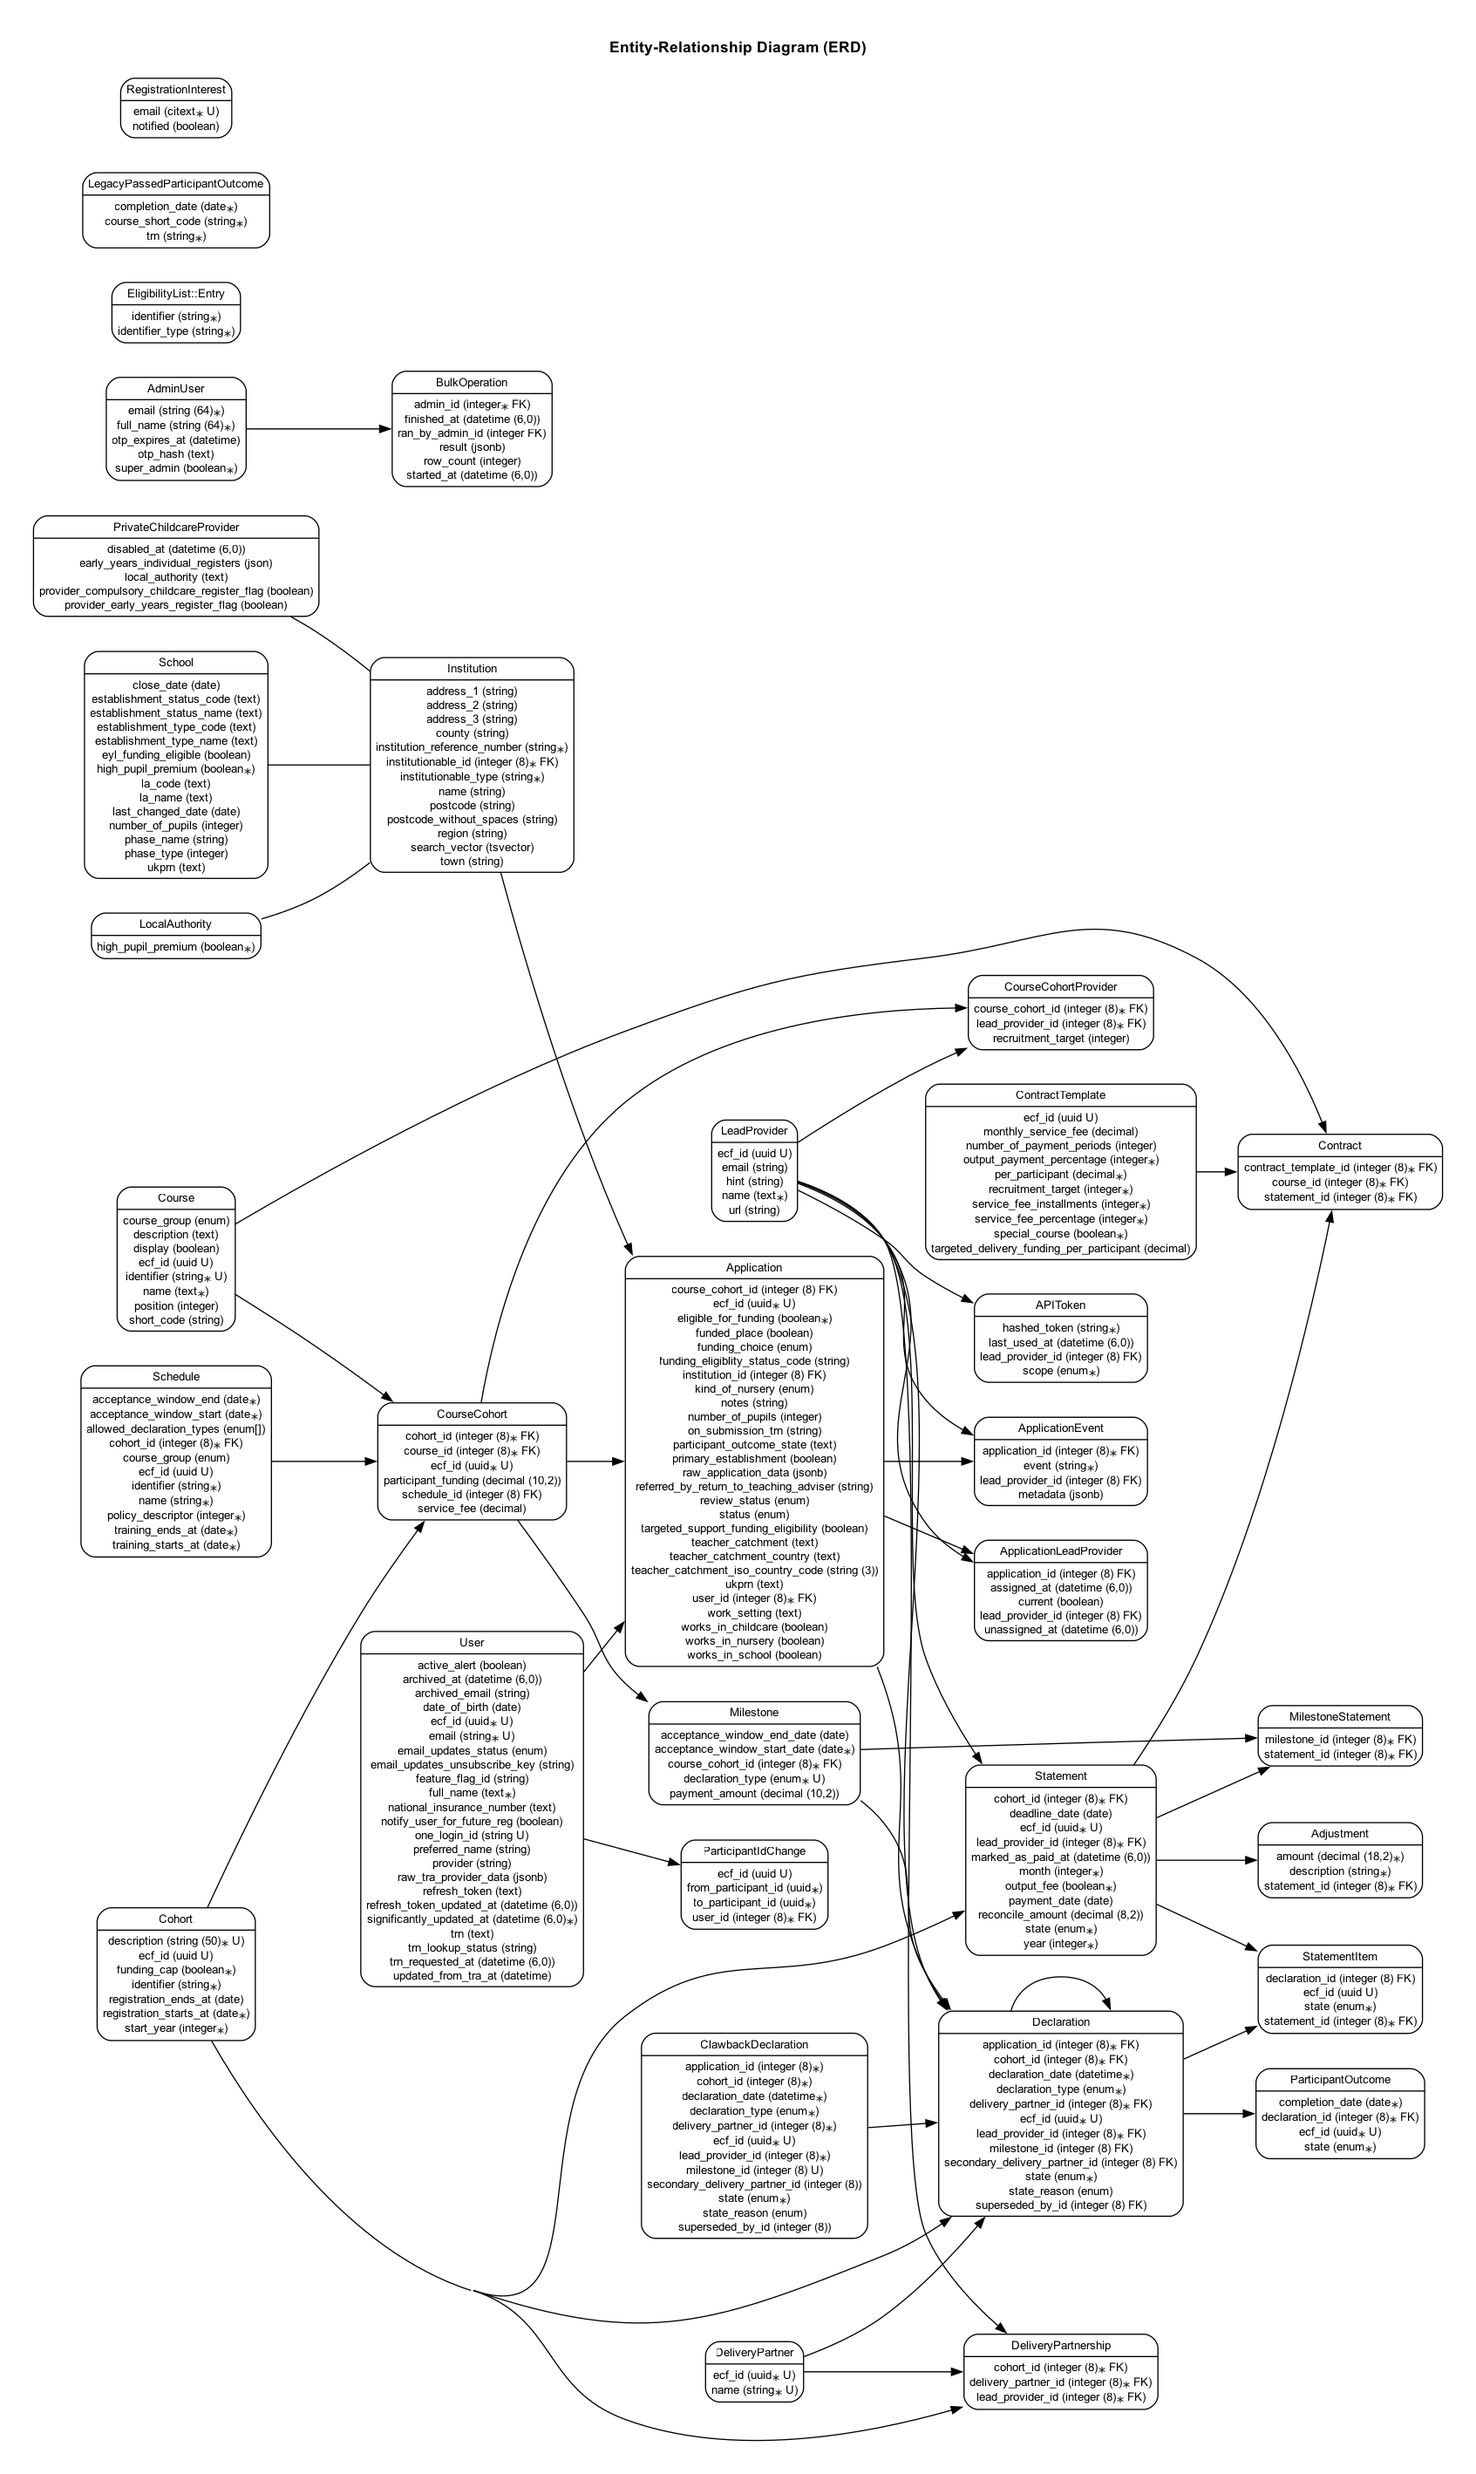
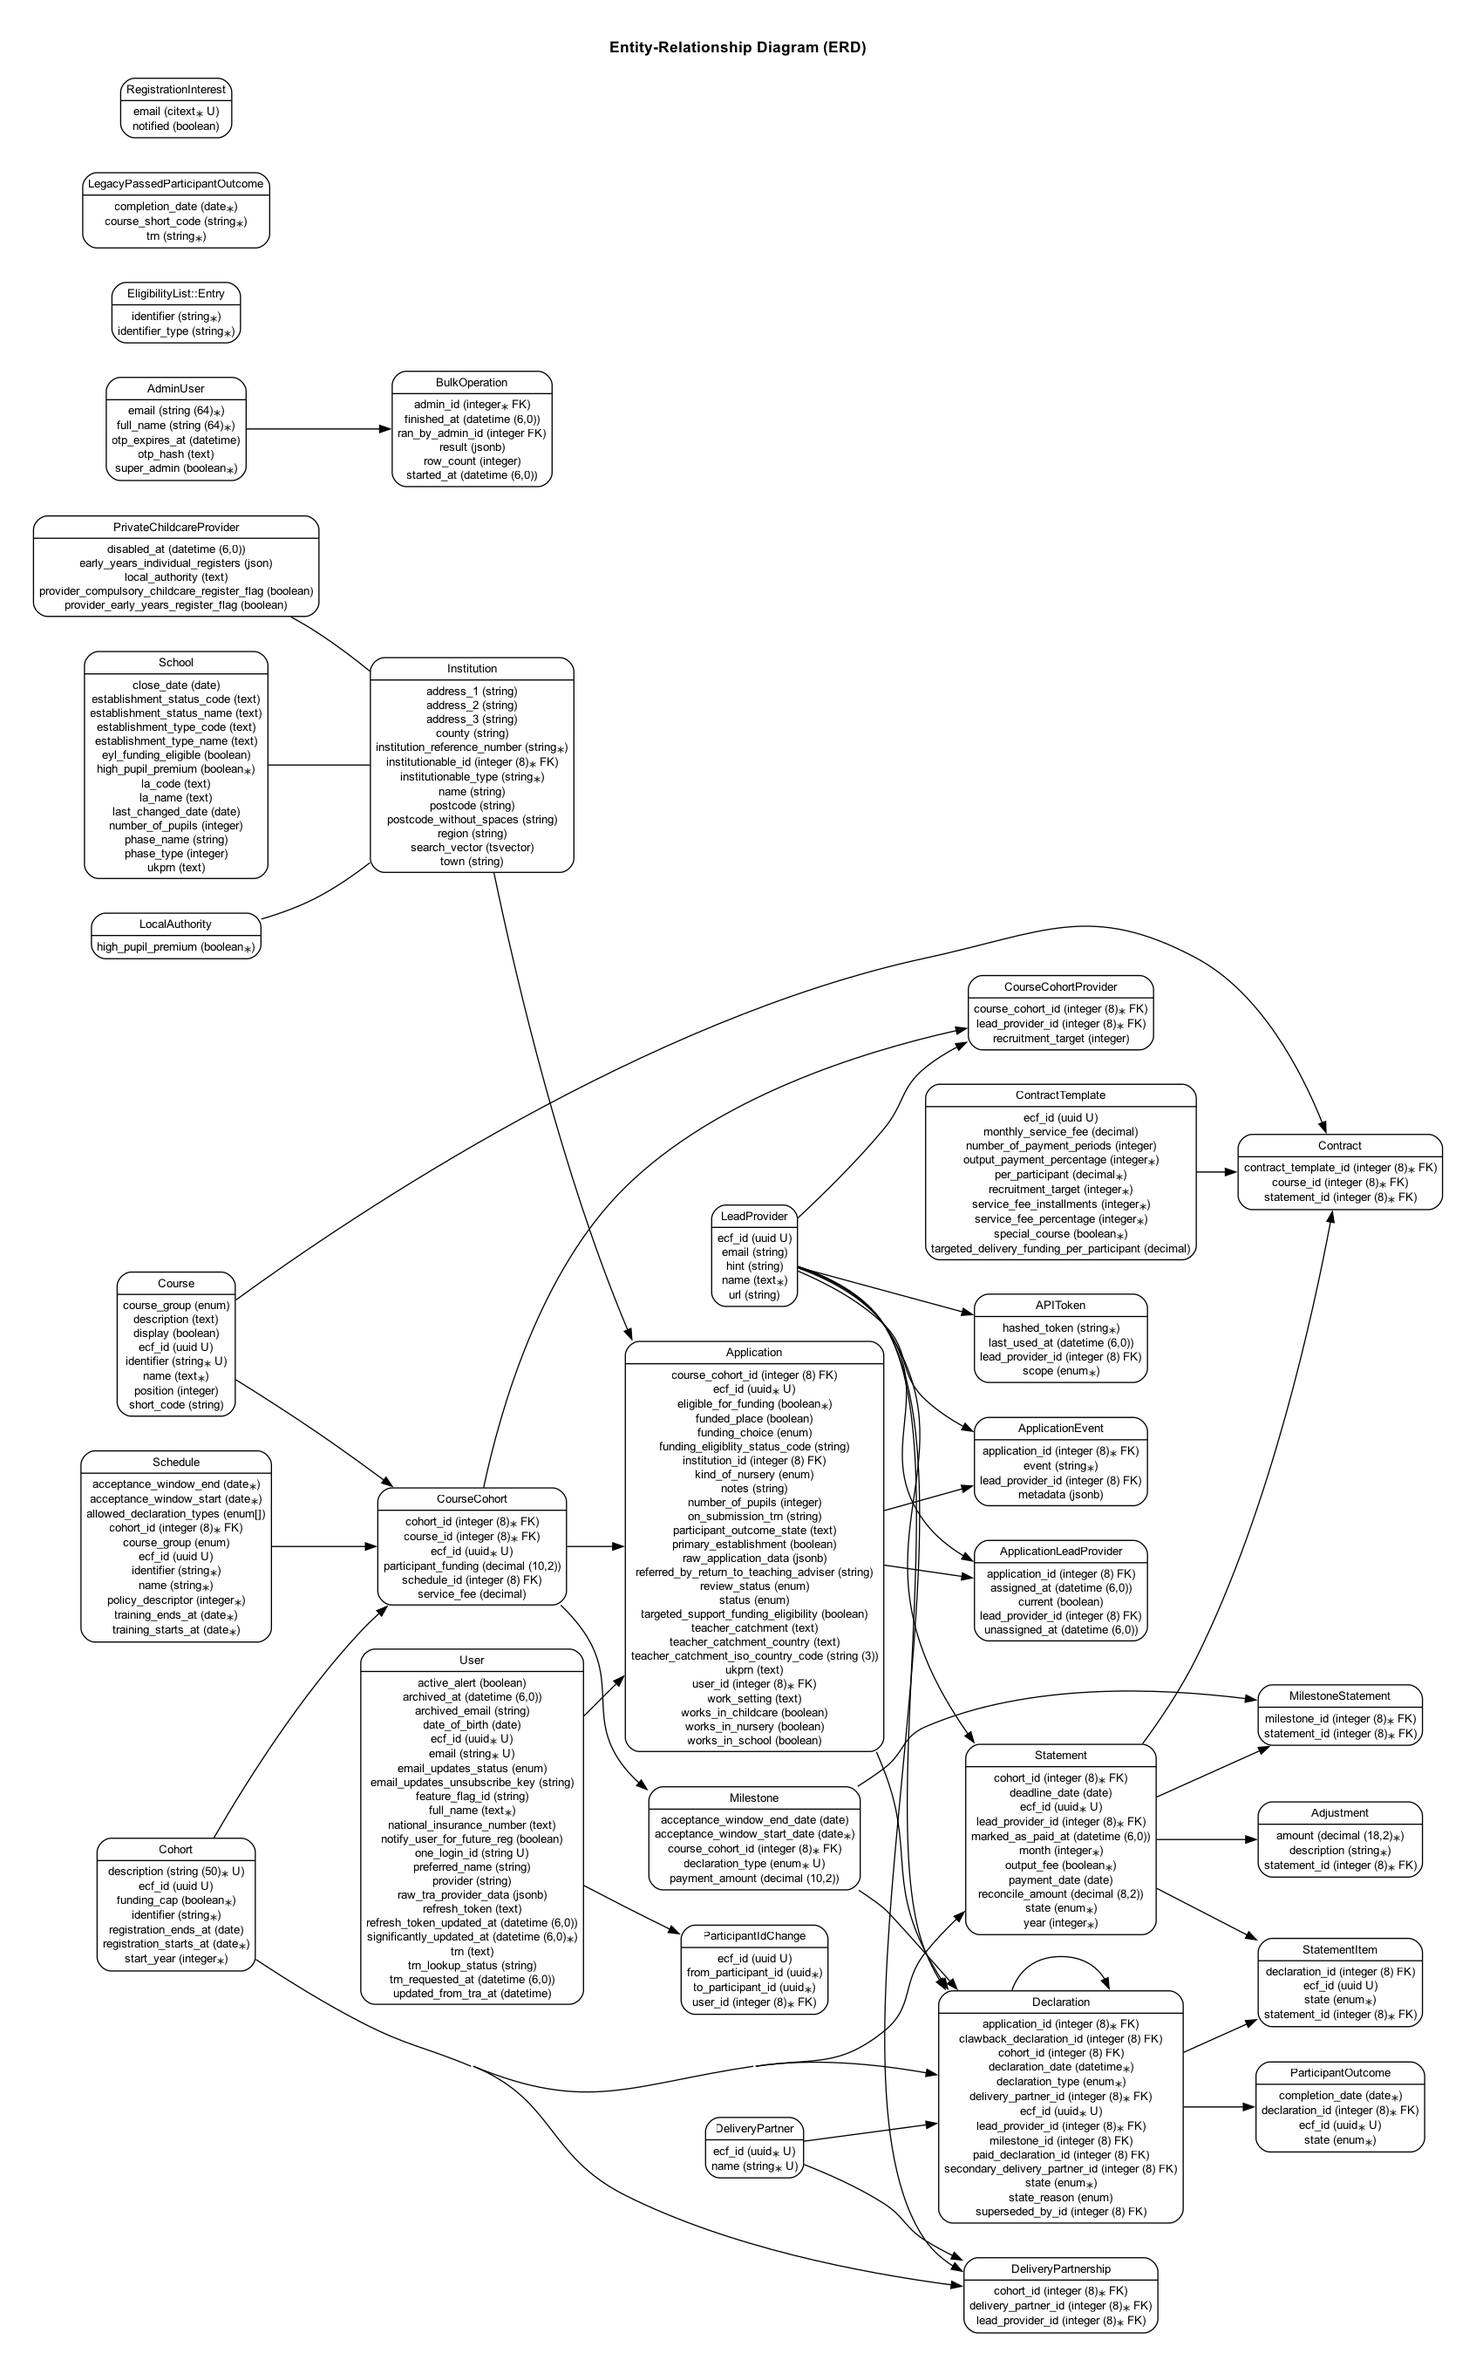
Fix rebase / specs

diff --git a/spec/models/declaration_spec.rb b/spec/models/declaration_spec.rb
@@ -50,6 +50,24 @@ RSpec.describe Declaration, type: :model do
     it { is_expected.to validate_presence_of(:declaration_date) }
     it { is_expected.to validate_uniqueness_of(:ecf_id).case_insensitive.with_message("ECF ID must be unique") }
 
+    describe "milestone uniqueness" do
+      let(:existing_declaration) { create(:declaration, :submitted) }
+
+      it "is invalid when another unique declaration state exists for the same application and milestone" do
+        declaration = build(:declaration, :submitted, application: existing_declaration.application, milestone: existing_declaration.milestone)
+
+        expect(declaration).to have_error(:milestone_id, :taken)
+      end
+
+      it "allows clawback declarations to use the same milestone as the paid declaration" do
+        existing_declaration.update!(state: :paid)
+
+        clawback_declaration = build(:clawback_declaration, paid_declaration: existing_declaration)
+
+        expect(clawback_declaration).to be_valid
+      end
+    end
+
     context "with delivery_partners" do
       before { delivery_partner && old_cohort_partner }
 

diff --git a/spec/factories/clawback_declarations.rb b/spec/factories/clawback_declarations.rb
@@ -1,12 +1,13 @@
 FactoryBot.define do
   factory :clawback_declaration do
-    milestone
-    cohort
-    declaration_date { milestone.acceptance_window_start_date }
-    declaration_type { milestone.declaration_type }
-    application { create(:application, :with_declaration) }
-    paid_declaration { application.declarations.first }
-    delivery_partner { create(:delivery_partner, lead_providers: { cohort => lead_provider }) }
-    lead_provider { application&.lead_provider || create(:lead_provider) }
+    paid_declaration { create(:declaration, :paid) }
+    application { paid_declaration.application }
+    milestone { paid_declaration.milestone }
+    cohort { paid_declaration.cohort }
+    declaration_date { paid_declaration.declaration_date }
+    declaration_type { paid_declaration.declaration_type }
+    delivery_partner { paid_declaration.delivery_partner }
+    secondary_delivery_partner { paid_declaration.secondary_delivery_partner }
+    lead_provider { paid_declaration.lead_provider }
   end
 end

diff --git a/app/models/declaration.rb b/app/models/declaration.rb
@@ -1,6 +1,7 @@
 class Declaration < ApplicationRecord
   REVERTABLE_STATES = %w[ineligible voided].freeze
   BILLABLE_STATES = %w[eligible payable paid].freeze
+  UNIQUE_MILESTONE_STATES = (BILLABLE_STATES + %w[submitted]).freeze
   CHANGEABLE_STATES = %w[eligible submitted].freeze
   UPLIFT_PAID_STATES = %w[paid].freeze
   VOIDABLE_STATES = %w[submitted eligible payable ineligible].freeze
@@ -115,8 +116,8 @@ class Declaration < ApplicationRecord
   validate :delivery_partners_are_not_the_same, if: :delivery_partner
 
   validates :milestone_id,
-            uniqueness: { scope: :application_id, conditions: -> { where.not(state: :voided) } },
-            if: -> { milestone_id.present? && !voided? }
+            uniqueness: { scope: :application_id, conditions: -> { where(state: UNIQUE_MILESTONE_STATES) } },
+            if: -> { milestone_id.present? && state.in?(UNIQUE_MILESTONE_STATES) }
 
   scope :for_delivery_partners, lambda { |delivery_partner|
     where(delivery_partner: delivery_partner)

diff --git a/spec/factories/declarations.rb b/spec/factories/declarations.rb
@@ -61,7 +61,8 @@ FactoryBot.define do
 
     trait :voided_paid do
       state { :paid }
-      clawback_declaration
+
+      after(:create, &:clawback!)
     end
 
     trait :started do

diff --git a/documentation/domain-model.md b/documentation/domain-model.md
@@ -126,6 +126,7 @@ erDiagram
   Declaration {
     integer id
     integer application_id
+    integer clawback_declaration_id
     integer cohort_id
     datetime created_at
     datetime declaration_date
@@ -134,10 +135,12 @@ erDiagram
     uuid ecf_id
     integer lead_provider_id
     integer milestone_id
+    integer paid_declaration_id
     integer secondary_delivery_partner_id
     enum state
     enum state_reason
     integer superseded_by_id
+    string type
     datetime updated_at
   }
   Declaration }o--|| Application : belongs_to
